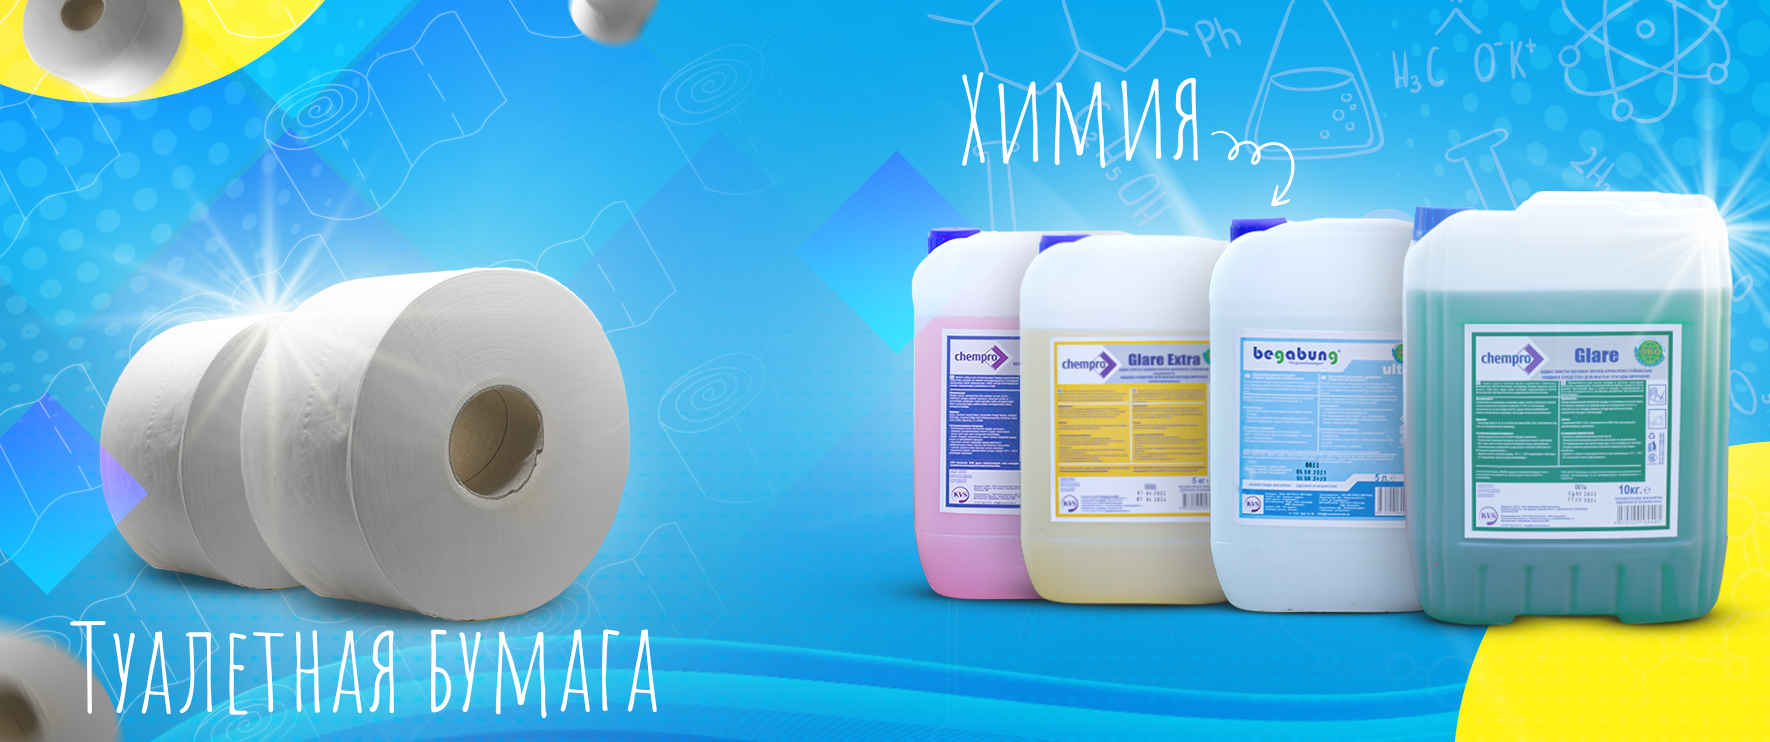
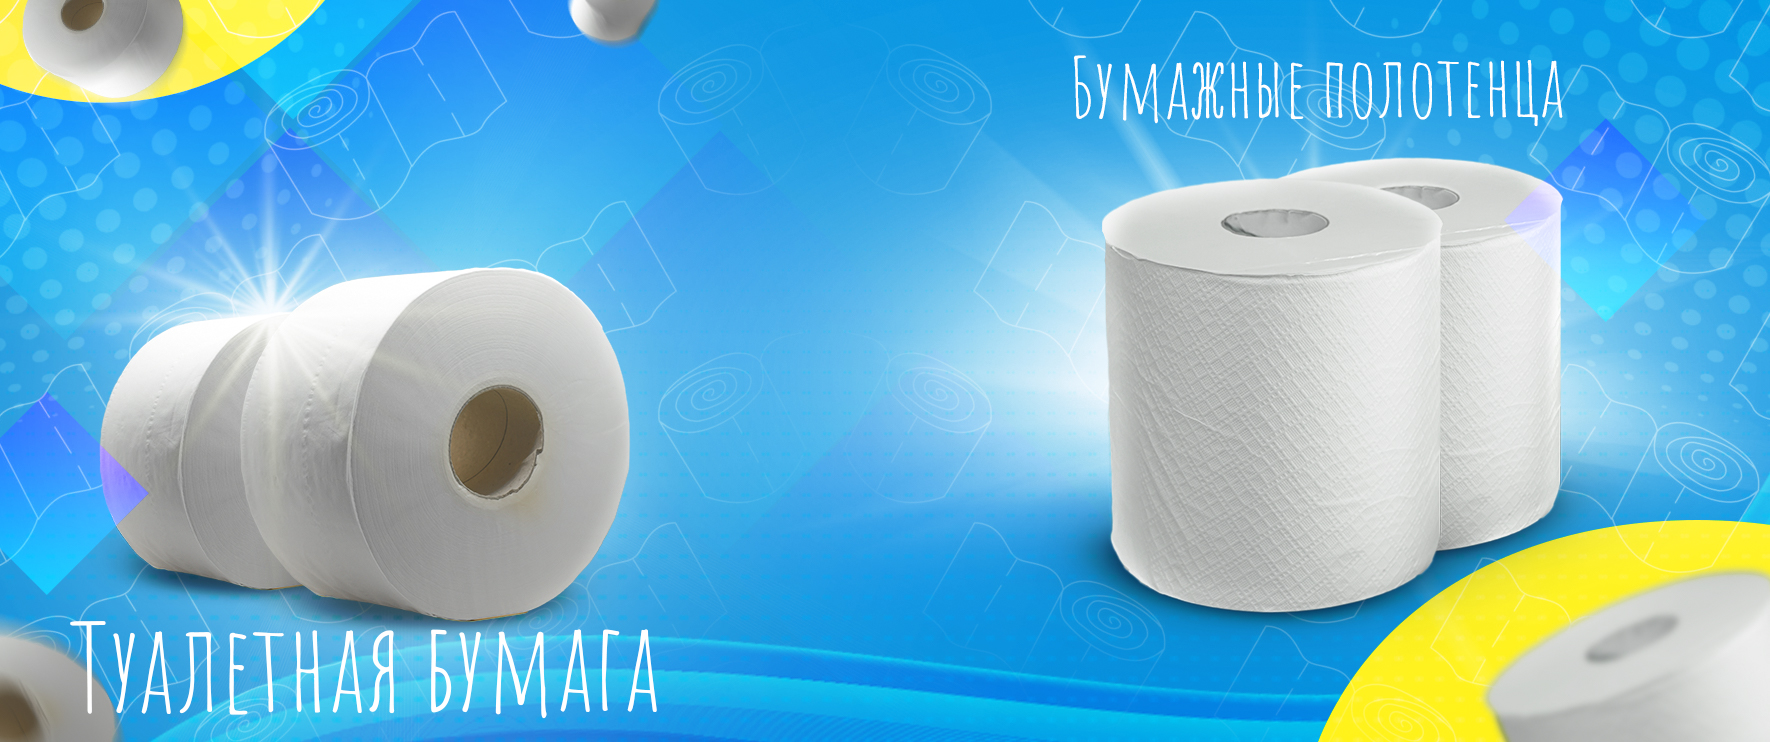
Сменил цвета

diff --git a/css/style.css b/css/style.css
@@ -417,7 +417,7 @@ a:hover {
 a,
 a:focus,
 a:active {
-	color: #6689ff;
+	color: #00afef;
 }
 
 a:hover {
@@ -855,7 +855,7 @@ a[href*='mailto'] {
 	height: 100%;
 	left: 50%;
 	right: 50%;
-	background: #a3b8ff;
+	background: #00afef;
 	transition: all .3s ease;
 }
 
@@ -2855,8 +2855,8 @@ hr {
 .button-primary,
 .button-primary:focus {
 	color: #ffffff;
-	background-color: #6689ff;
-	border-color: #6689ff;
+	background-color: #00afef;
+	border-color: #00afef;
 }
 
 .button-primary:hover,
@@ -13510,7 +13510,7 @@ html:not(.lt-ie10) .not-animated {
 	font-size: 20px;
 	line-height: 38px;
 	color: #ffffff;
-	background: #6689ff;
+	background: #00afef;
 	overflow: hidden;
 	text-align: center;
 	text-decoration: none;
@@ -13519,7 +13519,7 @@ html:not(.lt-ie10) .not-animated {
 }
 
 .ui-to-top:hover {
-	color: #ffffff;
+	color: #fff212;
 	background: #111111;
 	text-decoration: none;
 }
@@ -15784,7 +15784,7 @@ html.rd-navbar-fixed-linked .page-header {
 	left: 0;
 	height: 3px;
 	width: 100%;
-	background: #6689ff;
+	background: #00afef;
 	opacity: 0;
 	visibility: hidden;
 	transform: translateY(5px);
@@ -17625,11 +17625,11 @@ h3+.isotope-filters {
 	}
 
 	.isotope-filters-list a:hover {
-		color: #6689ff;
+		color: #00afef;
 	}
 
 	.isotope-filters-list a.active {
-		color: #6689ff;
+		color: #00afef;
 		background: transparent;
 	}
 

diff --git a/index.html b/index.html
@@ -171,7 +171,7 @@
     <section class="section section-sm section-first bg-default text-center" id="services">
       <div class="container">
         <div class="row row-30 justify-content-center">
-          <div class="col-md-7 col-lg-5 col-xl-6 text-lg-left wow fadeInUp"><img src="images/index-1-415x592.png" alt=""
+          <div class="col-md-7 col-lg-5 col-xl-6 text-lg-left wow fadeInUp"><img src="images/slider/SmallBanner.jpg" alt=""
               width="415" height="592" />
           </div>
           <div class="col-lg-7 col-xl-6">

diff --git a/css/rd-navbar.css b/css/rd-navbar.css
@@ -108,7 +108,7 @@
 .rd-navbar-static .rd-navbar-megamenu li.opened > a,
 .rd-navbar-static .rd-navbar-megamenu a:hover {
   color: #fff;
-  background: #007bff;
+  background: #00afef;
   z-index: 1;
 }
 
